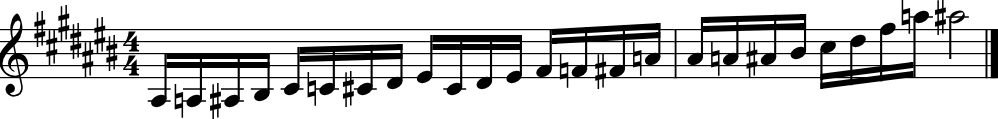
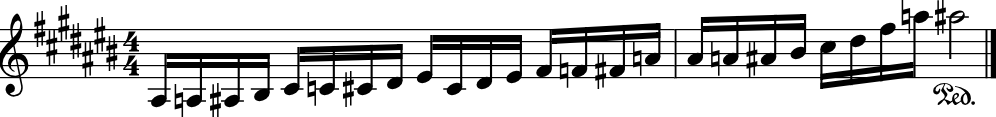
maxim max

Changed region(s): [[0.0, 0.0, 1.0, 1.0], [0.9337, 0.7179, 0.996, 0.8974], [0.0, 0.1538, 0.0622, 0.1795]]

diff --git a/index.html b/index.html
@@ -27492,7 +27492,7 @@ G# Fm | G Cm | G# Fm | G Cm <bblue>x2</bblue>
             </div>
     </div>
 
-    <div class="accordion" artist="МакSим" song="Мой рай" key="Dm" midi="3,120"  hash="jhj19t3id4m1ch1">
+    <div class="accordion" artist="МакSим" song="Мой рай" key="Dm" midi="3,120" hash="jhj19t3id4m1ch1">
             <button class="toggle-button">
                 <chord>https://amdm.ru/akkordi/maksim/163216/moy_ray/</chord>
                 <yt>https://www.youtube.com/watch?v=qLvu7V_aXvo</yt>
@@ -28158,7 +28158,7 @@ Fm7                        G
 Где цветёт сирень, где кружится 
 <span class="square-green-button">1</span>
 Csus4
-май.</chorus>
+май. <img imagetype="scores" data-src="pedal.png"> </chorus>
 <coda>
 <img imagetype="scores" data-src="maxim.ptici.3.png">  
 Csus4    
@@ -28336,16 +28336,16 @@ Cm Fm A# Cm <bblue>x4</bblue></instr>
             </div>
     </div>
 
-    <div class="accordion" artist="МакSим" song="Трудный Возраст" key="Bm" voice="Piano+Pads" midi="3,122" hash="mz4d2h84edvtbg4">
+    <div class="accordion" artist="МакSим" song="Трудный Возраст" key="Bm" voice="Piano+Pads" midi="3,122" pad="2" hash="mz4d2h84edvtbg4">
             <button class="toggle-button">
                 <chord>https://mychords.net/ru/maksim/127936-maksim-trudnyj-vozrast.html</chord>
                 <yt>https://www.youtube.com/watch?v=_5ov8iE5ciU</yt>
             </button>
             <div class="content">
 <song>
-<intro>
+<intro><span class="square-green-button">2</span>
 <img imagetype="scores" data-src="maxim.trudny.vozrast.2.png">
-
+<span class="square-green-button">1</span>
 <img imagetype="scores" data-src="maxim.trudny.vozrast.1.png">
 Bm Em F# <bblue>x4 (или x2 если играем первую часть)</bblue></intro>
 <verse>
